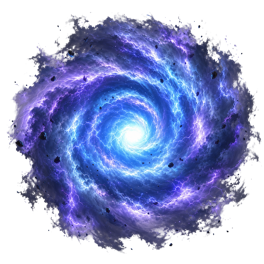
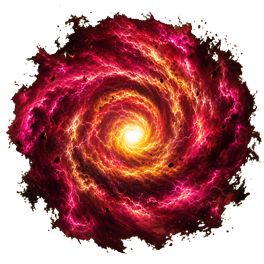
1028 지구본 월드게이트 표식 = 빨간 범람 스톰게이트(stormeye_gate_chroma_red 264px) — 마스터 '범람게이트(빨간 스톰게이트) 그걸로 바꿔서 이미지 사용' / '웹도 같이 바꿔줘야지'

diff --git a/player/globe/index.html b/player/globe/index.html
@@ -230,7 +230,7 @@
     /* 1025 월드게이트(원정) 표식 = 범람 게이트보다 몇 배 큰 인게임 게이트 그림(스톰아이) + 도시 레이드 이름 */
     .wg { width: var(--wgs, 132px); height: var(--wgs, 132px); cursor: pointer; display: flex; align-items: center; justify-content: center; z-index: 4; }
     body.hunter .wg { display: none; }
-    .wg .img { position: absolute; inset: 0; background: url(worldgate.png) center / contain no-repeat;
+    .wg .img { position: absolute; inset: 0; background: url(worldgate.png?v=1028) center / contain no-repeat;
       filter: drop-shadow(0 0 10px rgba(80, 160, 255, .9)); animation: wgspin 14s linear infinite; }   /* 인게임 월드게이트와 같은 그림(스톰아이), 같은 방향으로 빙글 */
     .wg .wgl { position: absolute; top: 100%; left: 50%; transform: translateX(-50%); margin-top: 2px; white-space: nowrap; text-align: center;
       font-weight: 800; font-size: 13px; line-height: 1.25; color: #dff1ff; text-shadow: 0 0 8px rgba(40, 120, 255, .95), 0 1px 2px #000; }
